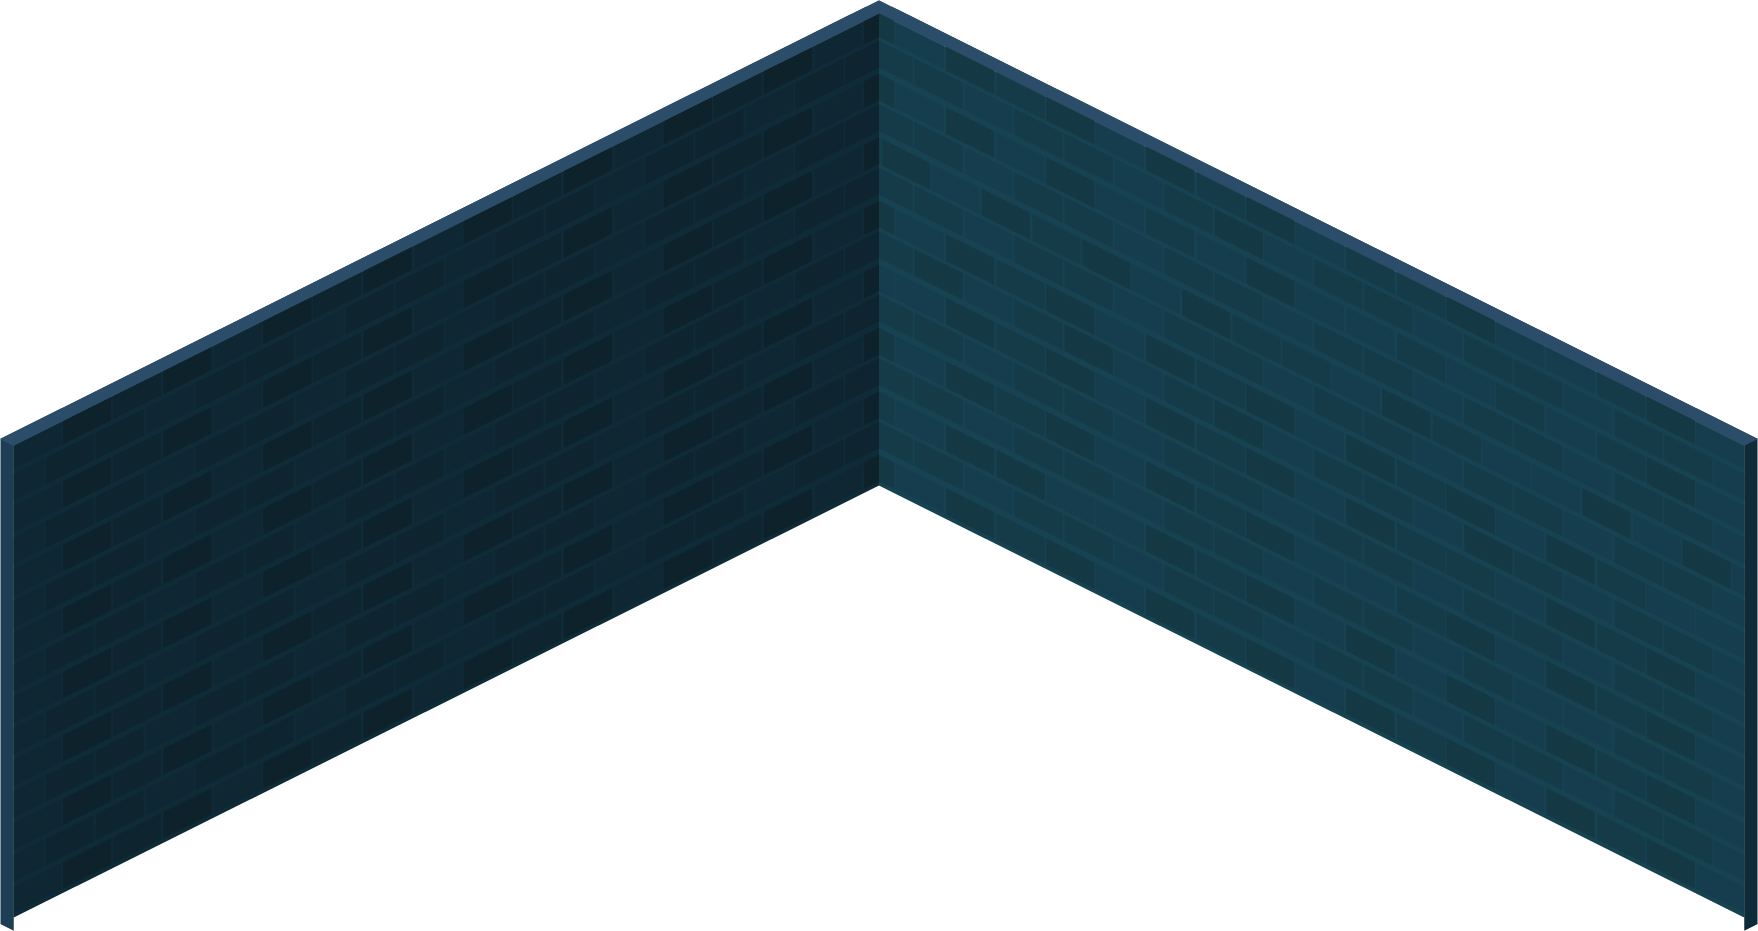
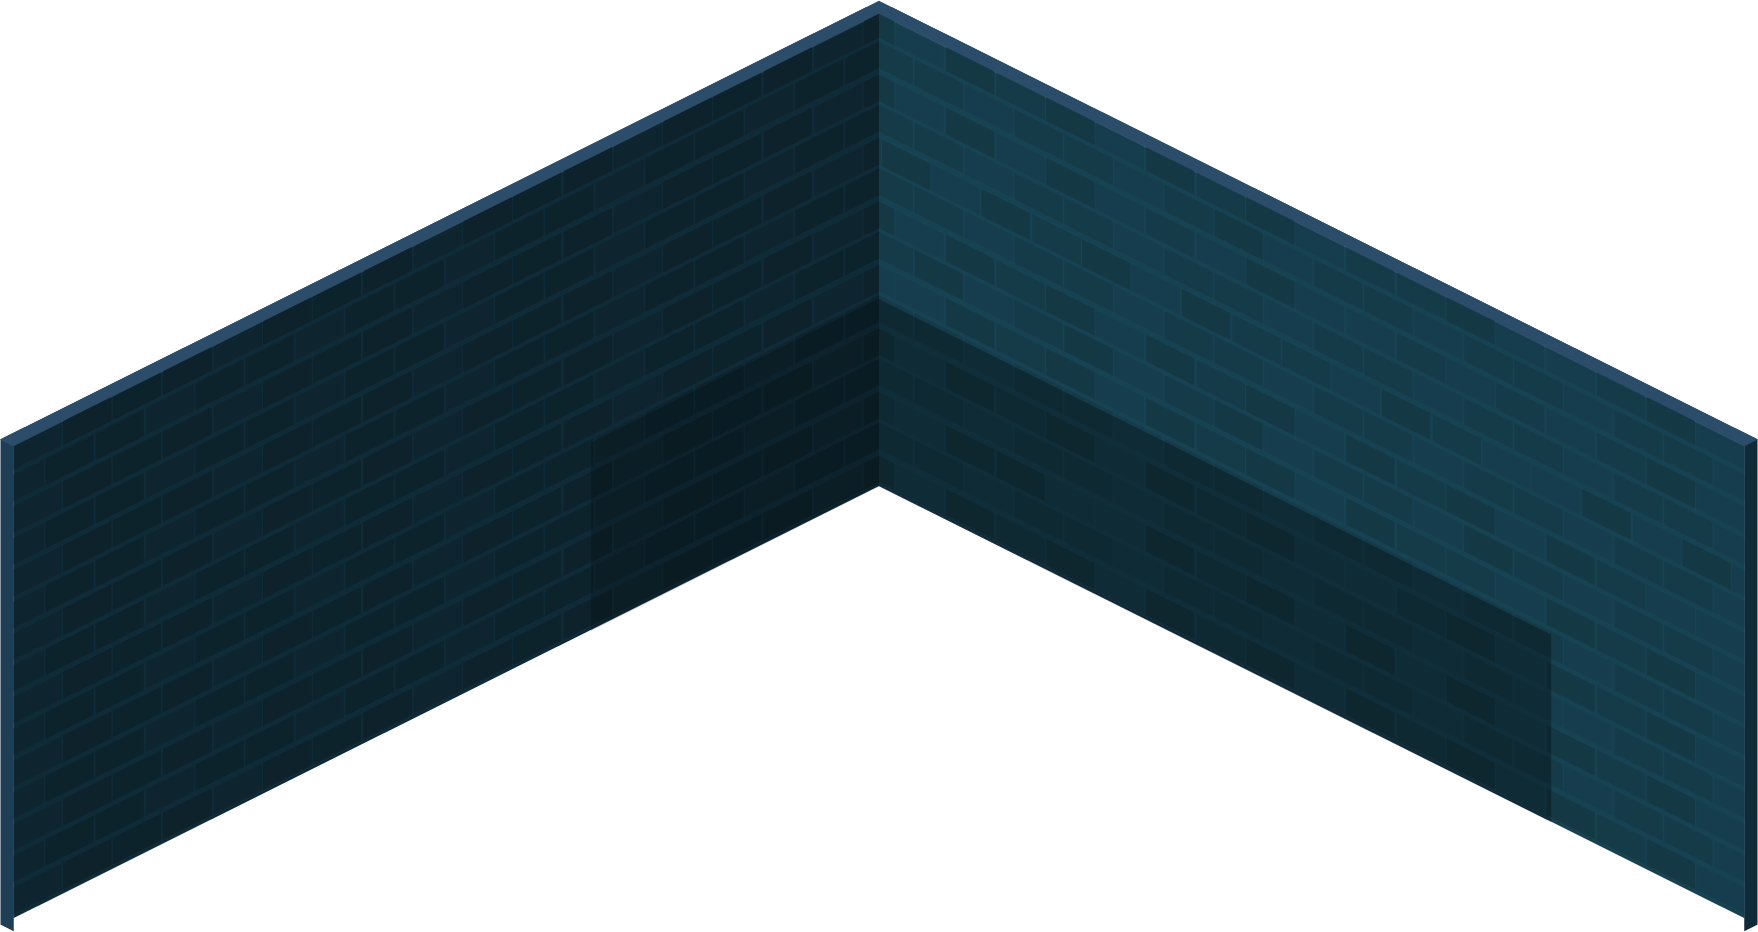
feat: use object floor to wrap tile

Changed region(s): [[0.4915, 0.3738, 0.8908, 0.8722], [0.4915, 0.3426, 0.5222, 0.3738]]

diff --git a/src/scenes/play-scene.js b/src/scenes/play-scene.js
@@ -1,5 +1,5 @@
 import { Scene } from 'phaser'
-import Tile from '../utils/tile'
+import Floor from '../utils/floor'
 import Wall from '../utils/wall'
 
 export default class PlayScene extends Scene {
@@ -7,7 +7,8 @@ export default class PlayScene extends Scene {
     super({ key: 'PlayScene' })
     this.centerX = screen.width / 2
     this.centerY = screen.height / 2
-    this.tileGroup = null
+    this.firstFloor = null
+    this.secondFloor = null
     this.wall = null
   }
   init () {
@@ -16,6 +17,7 @@ export default class PlayScene extends Scene {
   }
   async create () {
     console.log('play scene created')
+    this.cameras.main.setZoom(0.7)
 
     this.wall = new Wall(this, {
       x: this.centerX,
@@ -24,7 +26,8 @@ export default class PlayScene extends Scene {
       depth: 0
     }).setOrigin(0.5, 1)
 
-    this.placeTiles(9)
+    this.firstFloor = new Floor(this, { column: 9, row: 9, floor: 1 })
+    this.secondFloor = new Floor(this, { column: 7, row: 3, floor: 2 })
     this.mountDragEvent()
   }
   mountDragEvent () {
@@ -36,29 +39,5 @@ export default class PlayScene extends Scene {
         camera.scrollX -= drag1Vector.x / camera.zoom
         camera.scrollY -= drag1Vector.y / camera.zoom
       })
-  }
-  placeTiles (scale) {
-    this.tileGroup = this.add.group()
-    const tileWidth = 192
-    const tileHeight = 96
-    const tileWidthHalf = tileWidth / 2
-    const tileHeightHalf = tileHeight / 2
-
-    for (let y = 0; y < scale; y++) {
-      for (let x = 0; x < scale; x++) {
-        let tx = (x - y) * tileWidthHalf
-        let ty = (x + y) * tileHeightHalf
-        const options = {
-          x: this.centerX + tx,
-          y: this.centerY + ty,
-          texture: 'tile',
-          depth: this.centerY + ty,
-          coordinateX: x,
-          coordinateY: y
-        }
-        const tile = new Tile(this, options).setOrigin(0.5, 1)
-        this.tileGroup.add(tile)
-      }
-    }
   }
 }

diff --git a/src/utils/floor.js b/src/utils/floor.js
@@ -1,0 +1,64 @@
+import Phaser from 'phaser'
+
+class Tile extends Phaser.GameObjects.Image {
+  constructor (scene, { x, y, texture, depth, coordinateX, coordinateY, floor }) {
+    super(scene, x, y, texture)
+    scene.add.existing(this)
+    this.setDepth(depth)
+    this.floor = floor
+    this.coordinateX = coordinateX
+    this.coordinateY = coordinateY
+    this._interactArea = new Phaser.Geom.Polygon([
+      0, 101,
+      96, 150,
+      192, 101,
+      192, 89,
+      96, 41,
+      0, 89
+    ])
+    this.setInteractive(this._interactArea, Phaser.Geom.Polygon.Contains)
+      .on('pointerdown', () => {
+        console.log(`${this.floor}樓 (${this.coordinateX}, ${this.coordinateY})`)
+      })
+  }
+}
+
+export default class Floor extends Phaser.GameObjects.Group {
+  constructor (scene, { column, row, floor }) {
+    super(scene)
+    this.scene = scene
+    this.centerX = screen.width / 2
+    this.centerY = screen.height / 2
+    this.column = column
+    this.row = row
+    this.floor = floor
+    this.placeTiles()
+  }
+  placeTiles () {
+    const tileWidth = 192
+    const tileHeight = 96
+    const tileWidthHalf = tileWidth / 2
+    const tileHeightHalf = tileHeight / 2
+
+    for (let y = 0; y < this.row; y++) {
+      for (let x = 0; x < this.column; x++) {
+        let tx = (x - y) * tileWidthHalf
+        let ty = (x + y) * tileHeightHalf
+        const options = {
+          x: this.centerX + tx,
+          y: this.centerY + ty - (this.floor - 1) * tileHeight * 2,
+          texture: (x + y) % 2 === 0 ? 'tile-light' : 'tile-dark',
+          depth: this.centerY + ty,
+          coordinateX: x,
+          coordinateY: y,
+          floor: this.floor
+        }
+        const tile = new Tile(this.scene, options).setOrigin(0.5, 1)
+        if (x < 7 && y < 3 && this.floor === 1) {
+          tile.setTint(0X1F3B4A)
+        }
+        this.add(tile)
+      }
+    }
+  }
+}

diff --git a/src/scenes/boot-scene.js b/src/scenes/boot-scene.js
@@ -1,6 +1,7 @@
 import { Scene } from 'phaser'
 
-import tile from '../assets/images/tile-1.png'
+import tileLight from '../assets/images/tile-light.png'
+import tileDark from '../assets/images/tile-dark.png'
 import wall from '../assets/images/wall.png'
 export default class BootScene extends Scene {
   constructor () {
@@ -9,7 +10,8 @@ export default class BootScene extends Scene {
   init () {
   }
   preload () {
-    this.load.image('tile', tile)
+    this.load.image('tile-light', tileLight)
+    this.load.image('tile-dark', tileDark)
     this.load.image('wall', wall)
   }
   async create () {
